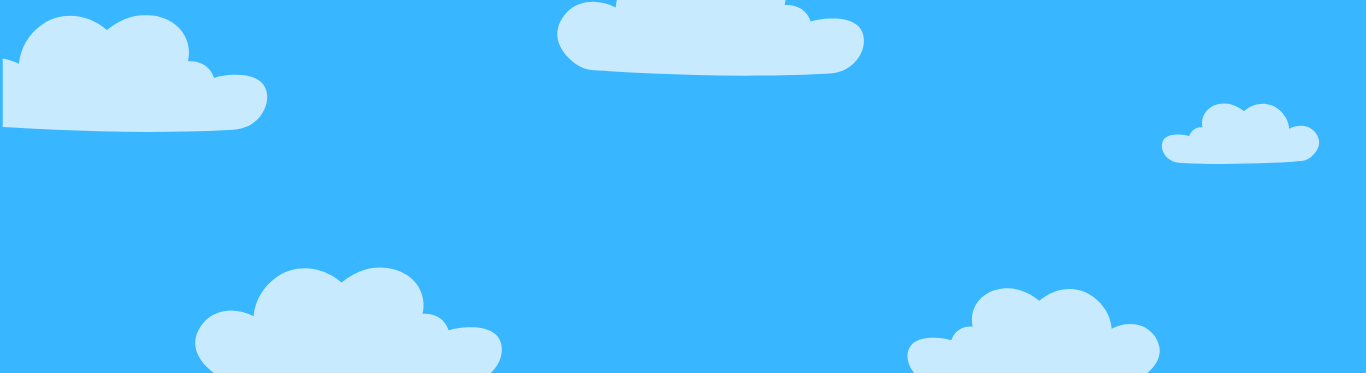
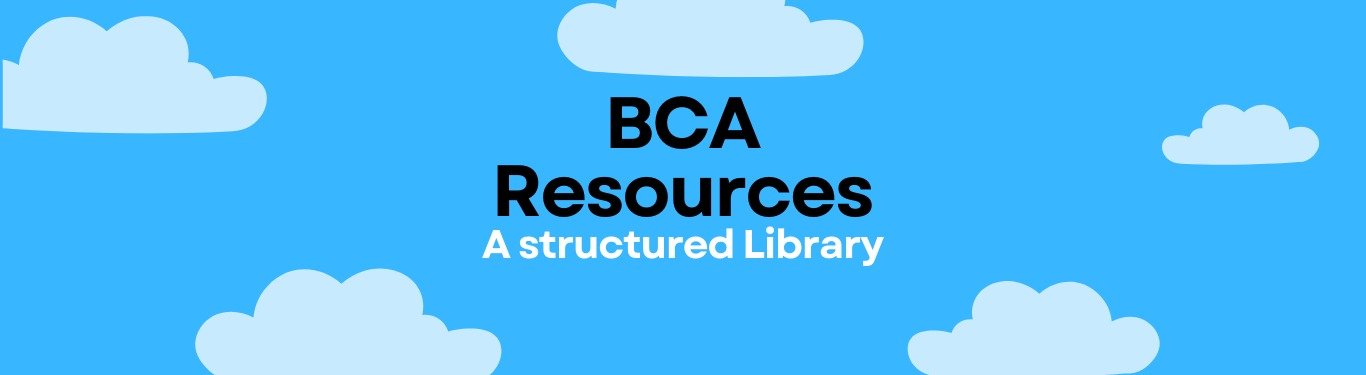
sunset image added

diff --git a/index.html b/index.html
@@ -26,14 +26,6 @@
     </nav>
     <div class="main">
         <img src="img/sun.gif" alt="" class="gif">
-        <div class="bca">
-            <p>BCA</p>
-            <p>Resources</p>
-            <p>
-            <div class="p">
-                <p>A Structured Library</p>
-            </div>
-        </div>
     </div>
     <div class="low">
         <div class="low1">Up To Date Syllabus!</div>
@@ -78,18 +70,20 @@
         </div>
     </div>
     <footer>
-        <div class="fdiv_1"><img src="img/logo black.png" alt="" class="footer_logo">
+        <div class="fdiv">
+            <!-- <img src="img/logo black.png" alt="" class="footer_logo"> -->
+            <p>Project links</p>
             <a href="About us.html">About us</a>
             <a href="https://github.com/vatszal/InfoWeb">Github</a>
         </div>
-        <div class="fdiv_2">
+        <div class="fdiv">
             <p>Recommended Resources</p>
             <a href="https://www.w3schools.com/">W3 School</a>
             <a href="https://stackoverflow.com/">StackOverflow</a>
             <a href="https://www.geeksforgeeks.org/">GeeksForGeeks</a>
             <a href="https://www.freecodecamp.org/">FreeCodeCamp</a>
         </div>
-        <div class="fdiv_3">
+        <div class="fdiv">
             <p>Contact Us<i class="ri-linkedin-box-fill"></i></p>
             <a href="https://www.linkedin.com/in/keshav-bhardwaj-305676294">Keshav Bhardwaj</a>
             <a href="https://www.linkedin.com/in/vatsal-mittal-5a55a9293/">Vatsal Mittal</a>

diff --git a/script.js b/script.js
@@ -4,17 +4,21 @@ mode.onclick = function () {
     let icon = document.querySelector(".icon");
     let headericon = document.querySelector(".header img");
     let decorative = document.querySelector(".main img")
+    let cloud = document.querySelector(".main");
     if (document.body.classList.contains("darkmode")) {
         icon.classList.add("ri-sun-line");
         icon.classList.remove("ri-contrast-2-fill");
         headericon.src = "img/logo black.png";
-        decorative.src="img/moon.gif";
+        decorative.src = 'img/sunset.png';
+        cloud.style.backgroundImage = "url('img/sunset2.jpg')";
+
     }
     else {
         icon.classList.add("ri-contrast-2-fill");
         icon.classList.remove("ri-sun-line");
         headericon.src = "img/logo white.png";
         decorative.src="img/sun.gif";
+        cloud.style.backgroundImage = "url('img/clouds.png')";
     }
 }
 

diff --git a/style.css b/style.css
@@ -58,7 +58,7 @@ body {
 }
 
 .logo img {
-    height: 20vh;
+    height: 15vw;
     width: 15vw;
     background-size: cover;
 }
@@ -126,16 +126,9 @@ body {
     height: 160px;
 }
 
-.bca {
-
-    font-size: 3rem;
-    font-weight: 800;
-}
-
-.p {
-
-    font-size: 2rem;
-    color: #fff;
+.bca{
+    font-size: 10vh;
+    font-weight: 549;
 }
 
 .low {
@@ -201,28 +194,17 @@ footer {
 }
 
 .footer_logo {
-    height: 15vh;
+    height: 10vw;
     width: 10vw;
 }
 
-.fdiv_1 a {
-    margin: 10px;
-    color: #fff;
-    margin-left: 40px;
-    display: flex;
-    text-decoration: none;
-
-}
-
-.fdiv_2 p,
-.fdiv_3 p {
+.fdiv p {
     margin-top: 40px;
     font-size: 20px;
     color: #fff;
 }
 
-.fdiv_2 a,
-.fdiv_3 a {
+.fdiv a {
     margin-top: 10px;
     display: flex;
     text-decoration: none;
